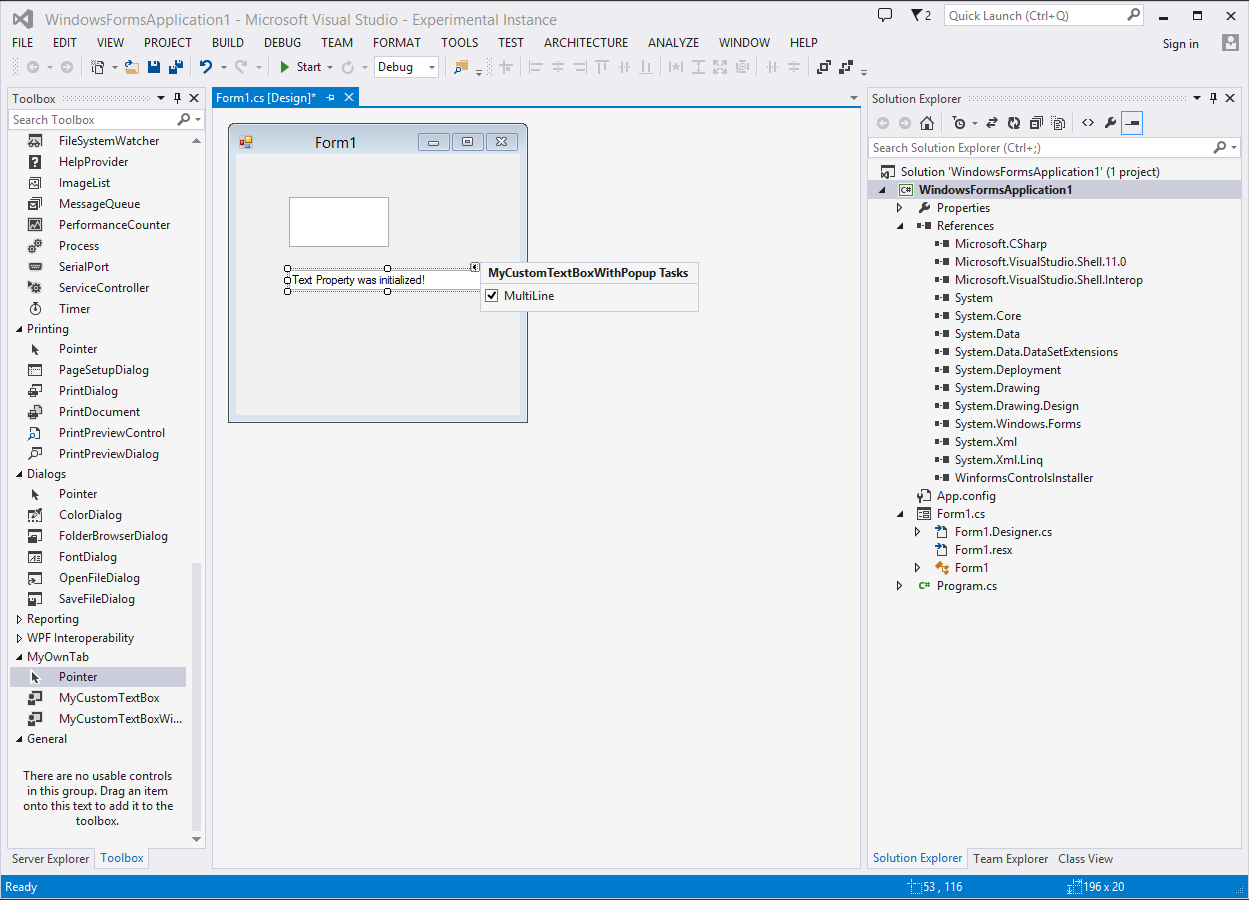
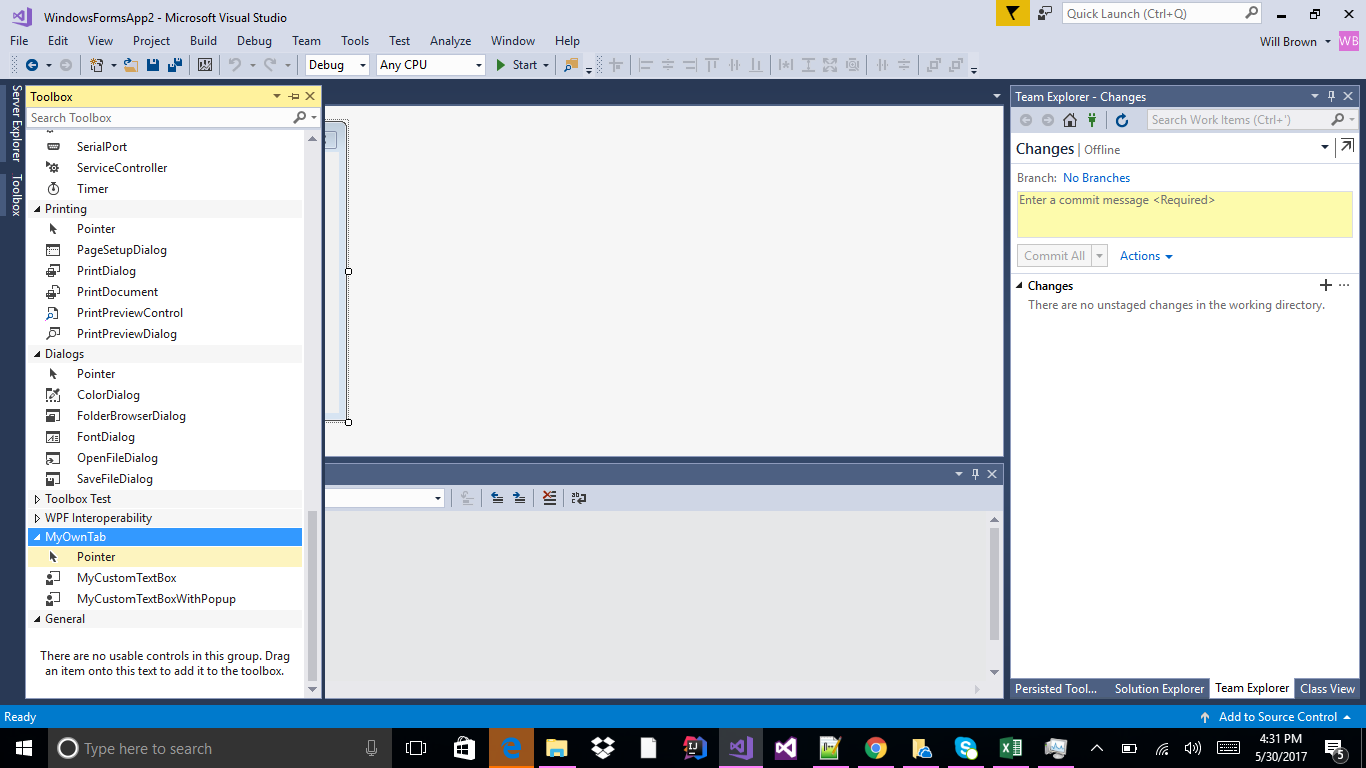
Updated png and readme.md

diff --git a/Windows_Forms_Controls_Installer/Readme.md b/Windows_Forms_Controls_Installer/Readme.md
@@ -1,9 +1,9 @@
-
+
 
 # Windows Forms Controls Installer Sample
 Load custom Windows Forms controls into the Toolbox in Visual Studio.
 
-* Technologies: Visual Studio 2015 SDK
+* Technologies: Visual Studio 2017 SDK
 * Topics: Visual Studio Shell, VSX
 
 **Description**
@@ -15,11 +15,11 @@ new items when a Windows Form is open in the Editor:
   * **MyCustomTextBox**: A normal Windows Forms control that adds a blank text field 
   * **MyCustomTextBoxWithPopup**: A custom ToolboxItem that adds a text box and pops up a dialogue box when added. 
 
-![image](C%23/WinformsControlsInstaller/screenshot.png)
+![image](C%23/WinformsControlsInstaller/Example.WindowsFormsControlsInstaller.png)
 
 **Requirements**
 
-* [ Visual Studio 2015 ](https://www.visualstudio.com/products/visual-studio-community-vs?wt.mc_id=o~display~github~vssdk)
+* [ Visual Studio 2017 ](https://www.visualstudio.com/products/visual-studio-community-vs?wt.mc_id=o~display~github~vssdk)
 
 * 
 
@@ -42,11 +42,11 @@ Clone the repo ([How to](https://git-scm.com/book/en/v2/Git-Basics-Getting-a-Git
 
 **Related topics**
 
-* [ Tool Window Documentation ](https://msdn.microsoft.com/en-us/library/bb165390(v=vs.140).aspx)
+* [ Tool Window Documentation ](https://docs.microsoft.com/en-us/visualstudio/extensibility/extending-and-customizing-tool-windows)
 
-* [ Editor Documentation ](https://msdn.microsoft.com/en-us/library/dd885118(v=vs.140).aspx)
+* [ Editor Documentation ](https://docs.microsoft.com/en-us/visualstudio/extensibility/editor-and-language-service-extensions)
 
-* [ Visual Studio SDK Documentation ](https://msdn.microsoft.com/en-us/library/bb166441(v=vs.140).aspx)
+* [ Visual Studio SDK Documentation ](https://docs.microsoft.com/en-us/visualstudio/extensibility/visual-studio-sdk)
 
 
 
